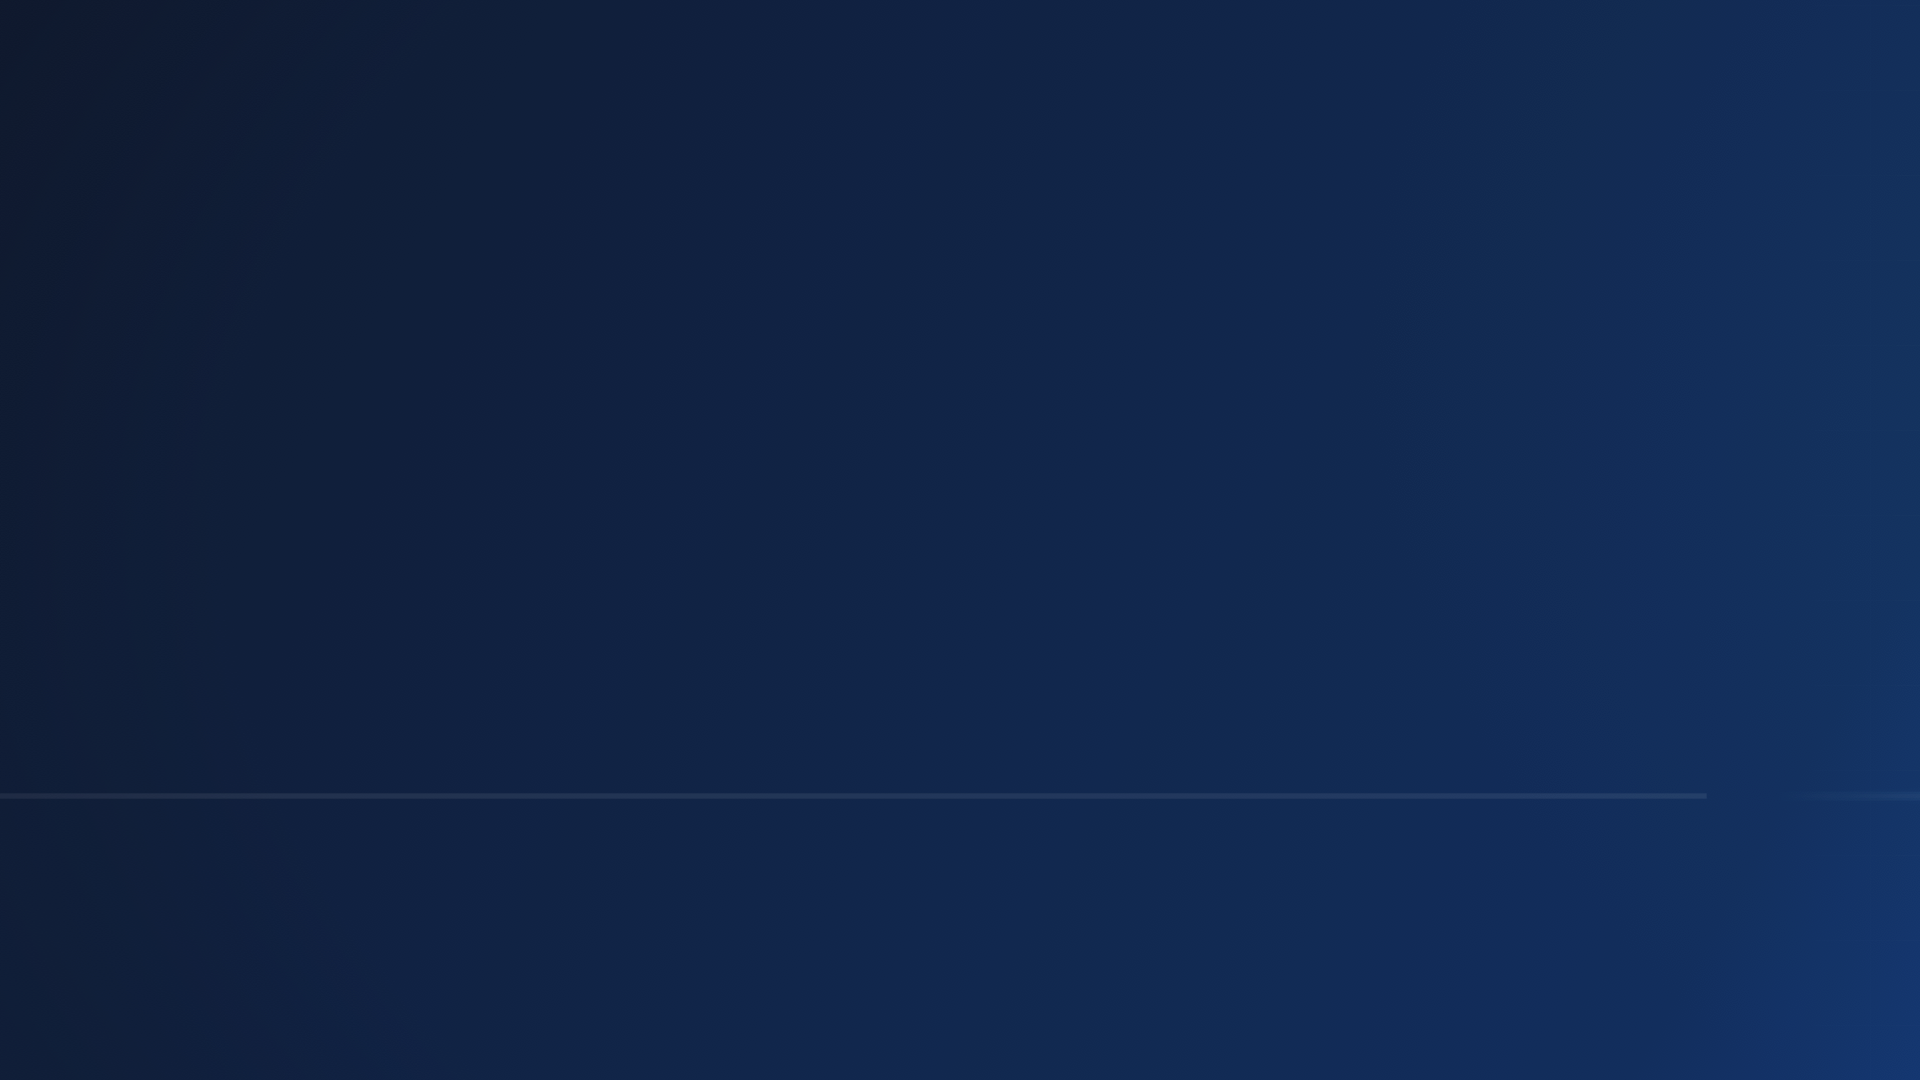
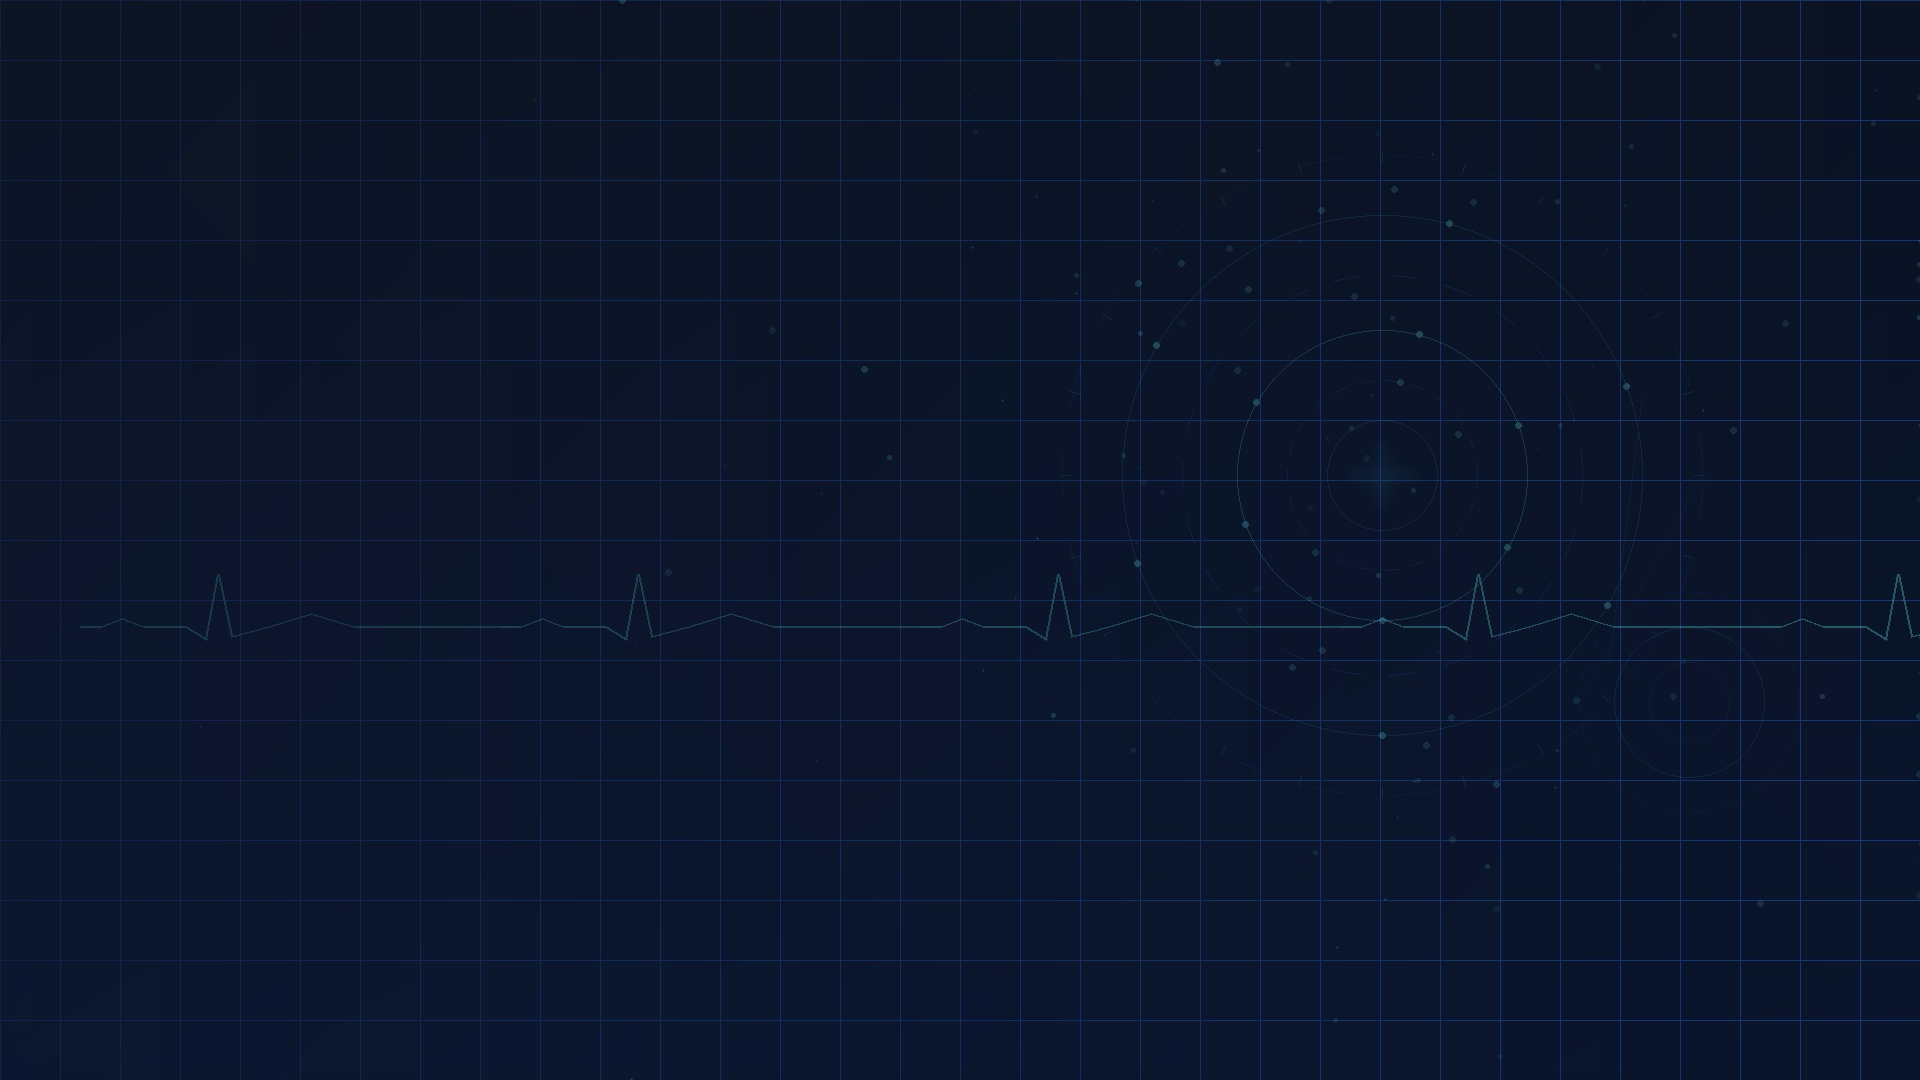
Fix hero medical asset path and force visible background override

diff --git a/frontend/src/pages/LandingPage.css b/frontend/src/pages/LandingPage.css
@@ -1015,29 +1015,31 @@
   padding-right: 24px;
   overflow-x: hidden;
   background: transparent;
+  background-color: transparent !important;
 }
 
 .landing-page::before {
   content: none;
 }
 
-.hero {
+.hero,
+.hero-section,
+.landing-hero {
   text-align: left;
   padding: 120px 24px 80px;
   min-height: 720px;
   isolation: isolate;
-  background-image:
-    linear-gradient(90deg, rgba(255,255,255,0.72) 0%, rgba(255,255,255,0.58) 45%, rgba(255,255,255,0.28) 100%),
-    url("/images/medical-bg.png");
-  background-size: cover;
-  background-position: center center;
-  background-repeat: no-repeat;
-  background-color: transparent;
+  background:
+    linear-gradient(90deg, rgba(255,255,255,0.70), rgba(255,255,255,0.45)),
+    url('/images/medical-bg.png') center right / cover no-repeat !important;
+  background-color: transparent !important;
   border-radius: 0;
   overflow: hidden;
 }
 
-.hero::before {
+.hero::before,
+.hero-section::before,
+.landing-hero::before {
   content: none;
 }
 
@@ -1376,12 +1378,6 @@
   .hero {
     padding: 96px 16px 56px;
     min-height: auto;
-    background-image:
-      linear-gradient(90deg, rgba(255,255,255,0.72) 0%, rgba(255,255,255,0.58) 45%, rgba(255,255,255,0.28) 100%),
-      url("/images/medical-bg.png");
-    background-size: cover;
-    background-position: center center;
-    background-repeat: no-repeat;
   }
 
   .hero-grid {
